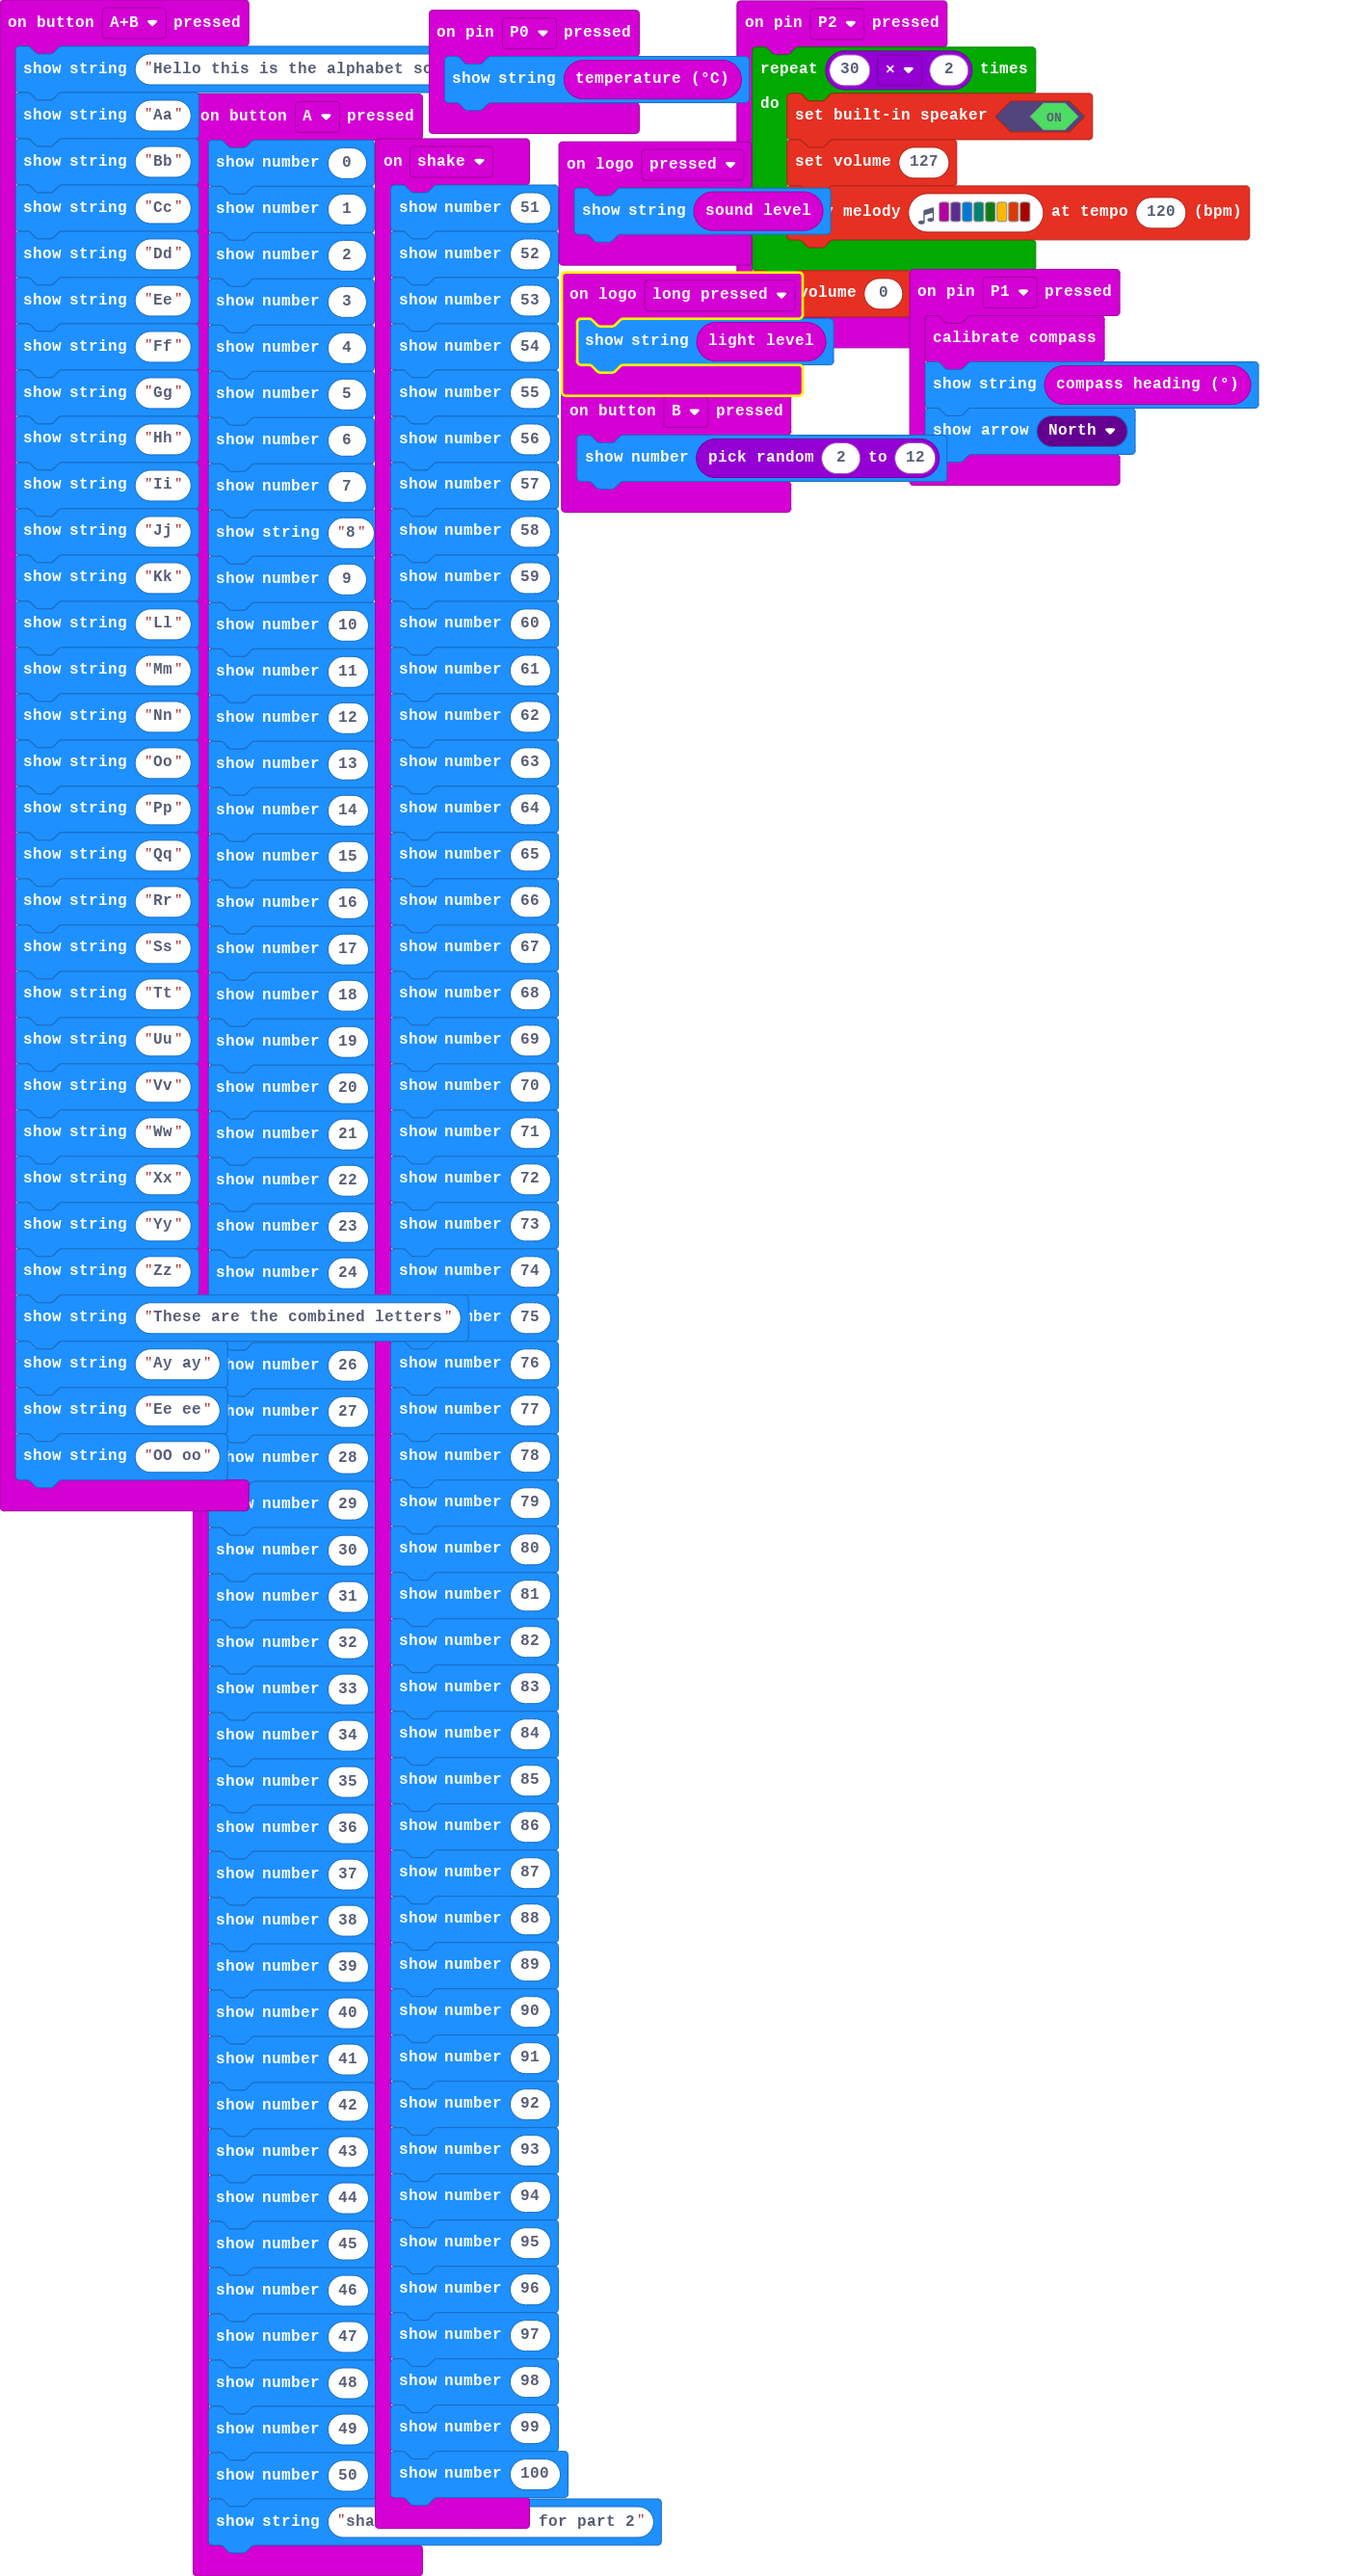
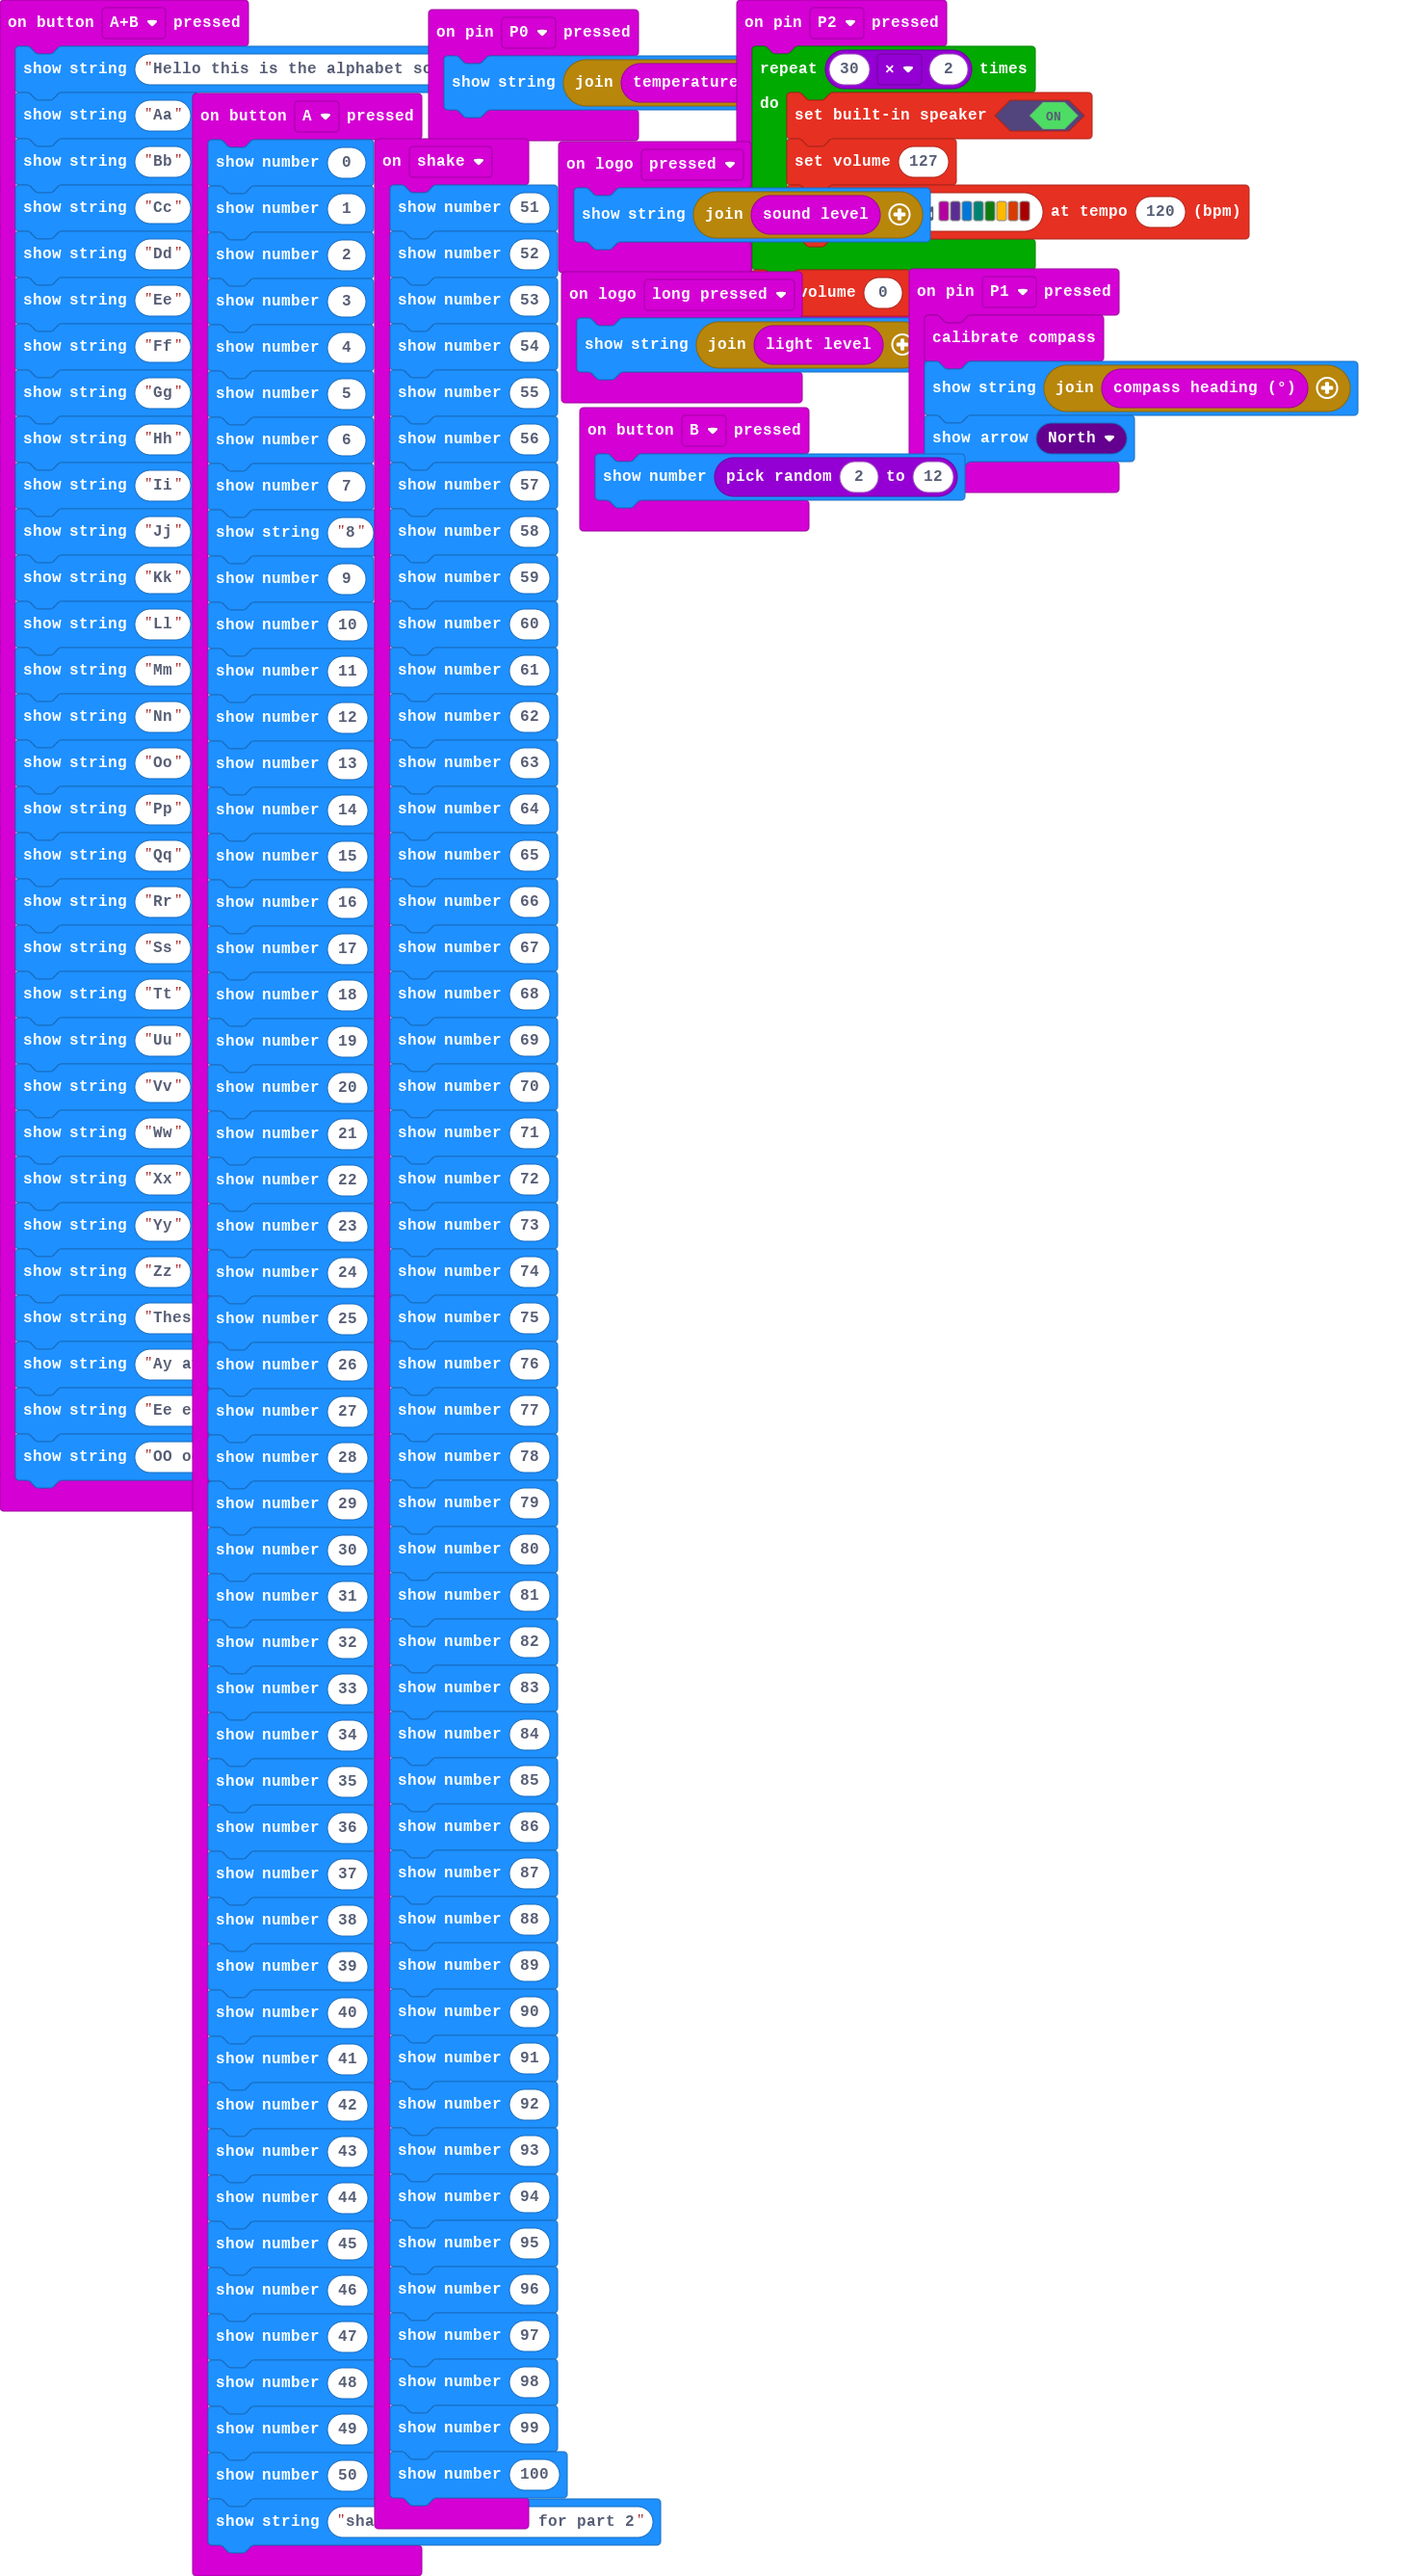
Update pxt.json, main.blocks, main.ts, main.py

Changed region(s): [[0.0, 0.0, 0.9822, 1.0], [0.4604, 0.9626, 0.4911, 0.9936]]

diff --git a/main.ts b/main.ts
@@ -1,8 +1,8 @@
 input.onPinPressed(TouchPin.P0, function () {
-    basic.showString("" + (input.temperature()))
+    basic.showString("" + input.temperature())
 })
 input.onLogoEvent(TouchButtonEvent.LongPressed, function () {
-    basic.showString("" + (input.lightLevel()))
+    basic.showString("" + input.lightLevel())
 })
 input.onButtonPressed(Button.A, function () {
     basic.showNumber(0)
@@ -104,7 +104,7 @@ input.onButtonPressed(Button.B, function () {
 })
 input.onPinPressed(TouchPin.P1, function () {
     input.calibrateCompass()
-    basic.showString("" + (input.compassHeading()))
+    basic.showString("" + input.compassHeading())
     basic.showArrow(ArrowNames.North)
 })
 input.onGesture(Gesture.Shake, function () {
@@ -160,5 +160,5 @@ input.onGesture(Gesture.Shake, function () {
     basic.showNumber(100)
 })
 input.onLogoEvent(TouchButtonEvent.Pressed, function () {
-    basic.showString("" + (input.soundLevel()))
+    basic.showString("" + input.soundLevel())
 })

diff --git a/main.py b/main.py
@@ -1,0 +1,171 @@
+def on_pin_pressed_p0():
+    basic.show_string("" + str(input.temperature()))
+input.on_pin_pressed(TouchPin.P0, on_pin_pressed_p0)
+
+def on_logo_long_pressed():
+    basic.show_string("" + str(input.light_level()))
+input.on_logo_event(TouchButtonEvent.LONG_PRESSED, on_logo_long_pressed)
+
+def on_button_pressed_a():
+    basic.show_number(0)
+    basic.show_number(1)
+    basic.show_number(2)
+    basic.show_number(3)
+    basic.show_number(4)
+    basic.show_number(5)
+    basic.show_number(6)
+    basic.show_number(7)
+    basic.show_string("8")
+    basic.show_number(9)
+    basic.show_number(10)
+    basic.show_number(11)
+    basic.show_number(12)
+    basic.show_number(13)
+    basic.show_number(14)
+    basic.show_number(15)
+    basic.show_number(16)
+    basic.show_number(17)
+    basic.show_number(18)
+    basic.show_number(19)
+    basic.show_number(20)
+    basic.show_number(21)
+    basic.show_number(22)
+    basic.show_number(23)
+    basic.show_number(24)
+    basic.show_number(25)
+    basic.show_number(26)
+    basic.show_number(27)
+    basic.show_number(28)
+    basic.show_number(29)
+    basic.show_number(30)
+    basic.show_number(31)
+    basic.show_number(32)
+    basic.show_number(33)
+    basic.show_number(34)
+    basic.show_number(35)
+    basic.show_number(36)
+    basic.show_number(37)
+    basic.show_number(38)
+    basic.show_number(39)
+    basic.show_number(40)
+    basic.show_number(41)
+    basic.show_number(42)
+    basic.show_number(43)
+    basic.show_number(44)
+    basic.show_number(45)
+    basic.show_number(46)
+    basic.show_number(47)
+    basic.show_number(48)
+    basic.show_number(49)
+    basic.show_number(50)
+    basic.show_string("shake it realy hard for part 2")
+input.on_button_pressed(Button.A, on_button_pressed_a)
+
+def on_pin_pressed_p2():
+    for index in range(30 * 2):
+        music.set_built_in_speaker_enabled(True)
+        music.set_volume(127)
+        music.play_melody("C D E F G A B C5 ", 120)
+    music.set_volume(0)
+input.on_pin_pressed(TouchPin.P2, on_pin_pressed_p2)
+
+def on_button_pressed_ab():
+    basic.show_string("Hello this is the alphabet song!")
+    basic.show_string("Aa")
+    basic.show_string("Bb")
+    basic.show_string("Cc")
+    basic.show_string("Dd")
+    basic.show_string("Ee")
+    basic.show_string("Ff")
+    basic.show_string("Gg")
+    basic.show_string("Hh")
+    basic.show_string("Ii")
+    basic.show_string("Jj")
+    basic.show_string("Kk")
+    basic.show_string("Ll")
+    basic.show_string("Mm")
+    basic.show_string("Nn")
+    basic.show_string("Oo")
+    basic.show_string("Pp")
+    basic.show_string("Qq")
+    basic.show_string("Rr")
+    basic.show_string("Ss")
+    basic.show_string("Tt")
+    basic.show_string("Uu")
+    basic.show_string("Vv")
+    basic.show_string("Ww")
+    basic.show_string("Xx")
+    basic.show_string("Yy")
+    basic.show_string("Zz")
+    basic.show_string("These are the combined letters")
+    basic.show_string("Ay ay")
+    basic.show_string("Ee ee")
+    basic.show_string("OO oo")
+input.on_button_pressed(Button.AB, on_button_pressed_ab)
+
+def on_button_pressed_b():
+    basic.show_number(randint(2, 12))
+input.on_button_pressed(Button.B, on_button_pressed_b)
+
+def on_pin_pressed_p1():
+    input.calibrate_compass()
+    basic.show_string("" + str(input.compass_heading()))
+    basic.show_arrow(ArrowNames.NORTH)
+input.on_pin_pressed(TouchPin.P1, on_pin_pressed_p1)
+
+def on_gesture_shake():
+    basic.show_number(51)
+    basic.show_number(52)
+    basic.show_number(53)
+    basic.show_number(54)
+    basic.show_number(55)
+    basic.show_number(56)
+    basic.show_number(57)
+    basic.show_number(58)
+    basic.show_number(59)
+    basic.show_number(60)
+    basic.show_number(61)
+    basic.show_number(62)
+    basic.show_number(63)
+    basic.show_number(64)
+    basic.show_number(65)
+    basic.show_number(66)
+    basic.show_number(67)
+    basic.show_number(68)
+    basic.show_number(69)
+    basic.show_number(70)
+    basic.show_number(71)
+    basic.show_number(72)
+    basic.show_number(73)
+    basic.show_number(74)
+    basic.show_number(75)
+    basic.show_number(76)
+    basic.show_number(77)
+    basic.show_number(78)
+    basic.show_number(79)
+    basic.show_number(80)
+    basic.show_number(81)
+    basic.show_number(82)
+    basic.show_number(83)
+    basic.show_number(84)
+    basic.show_number(85)
+    basic.show_number(86)
+    basic.show_number(87)
+    basic.show_number(88)
+    basic.show_number(89)
+    basic.show_number(90)
+    basic.show_number(91)
+    basic.show_number(92)
+    basic.show_number(93)
+    basic.show_number(94)
+    basic.show_number(95)
+    basic.show_number(96)
+    basic.show_number(97)
+    basic.show_number(98)
+    basic.show_number(99)
+    basic.show_number(100)
+input.on_gesture(Gesture.SHAKE, on_gesture_shake)
+
+def on_logo_pressed():
+    basic.show_string("" + str(input.sound_level()))
+input.on_logo_event(TouchButtonEvent.PRESSED, on_logo_pressed)
